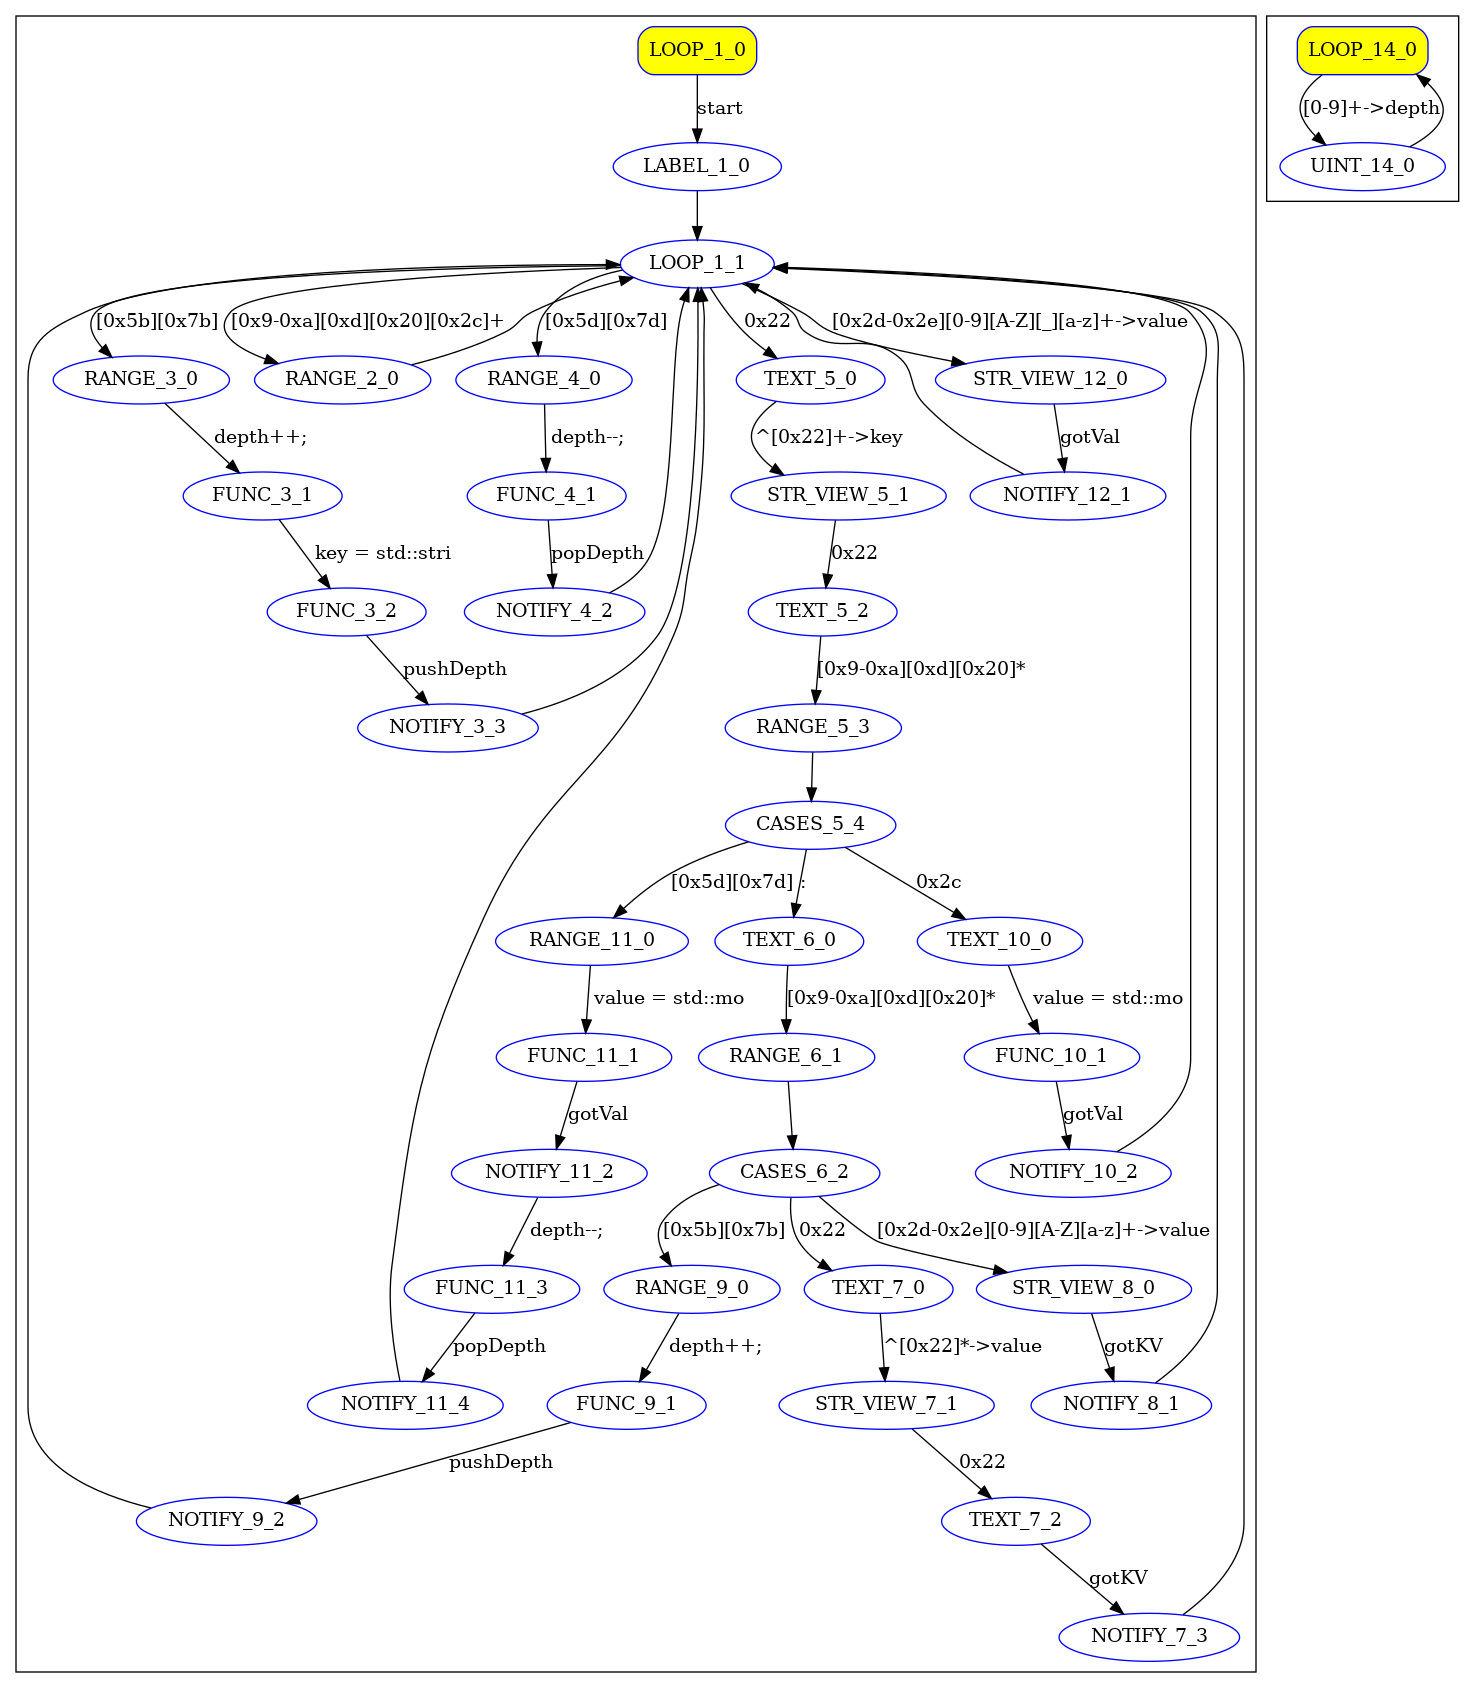
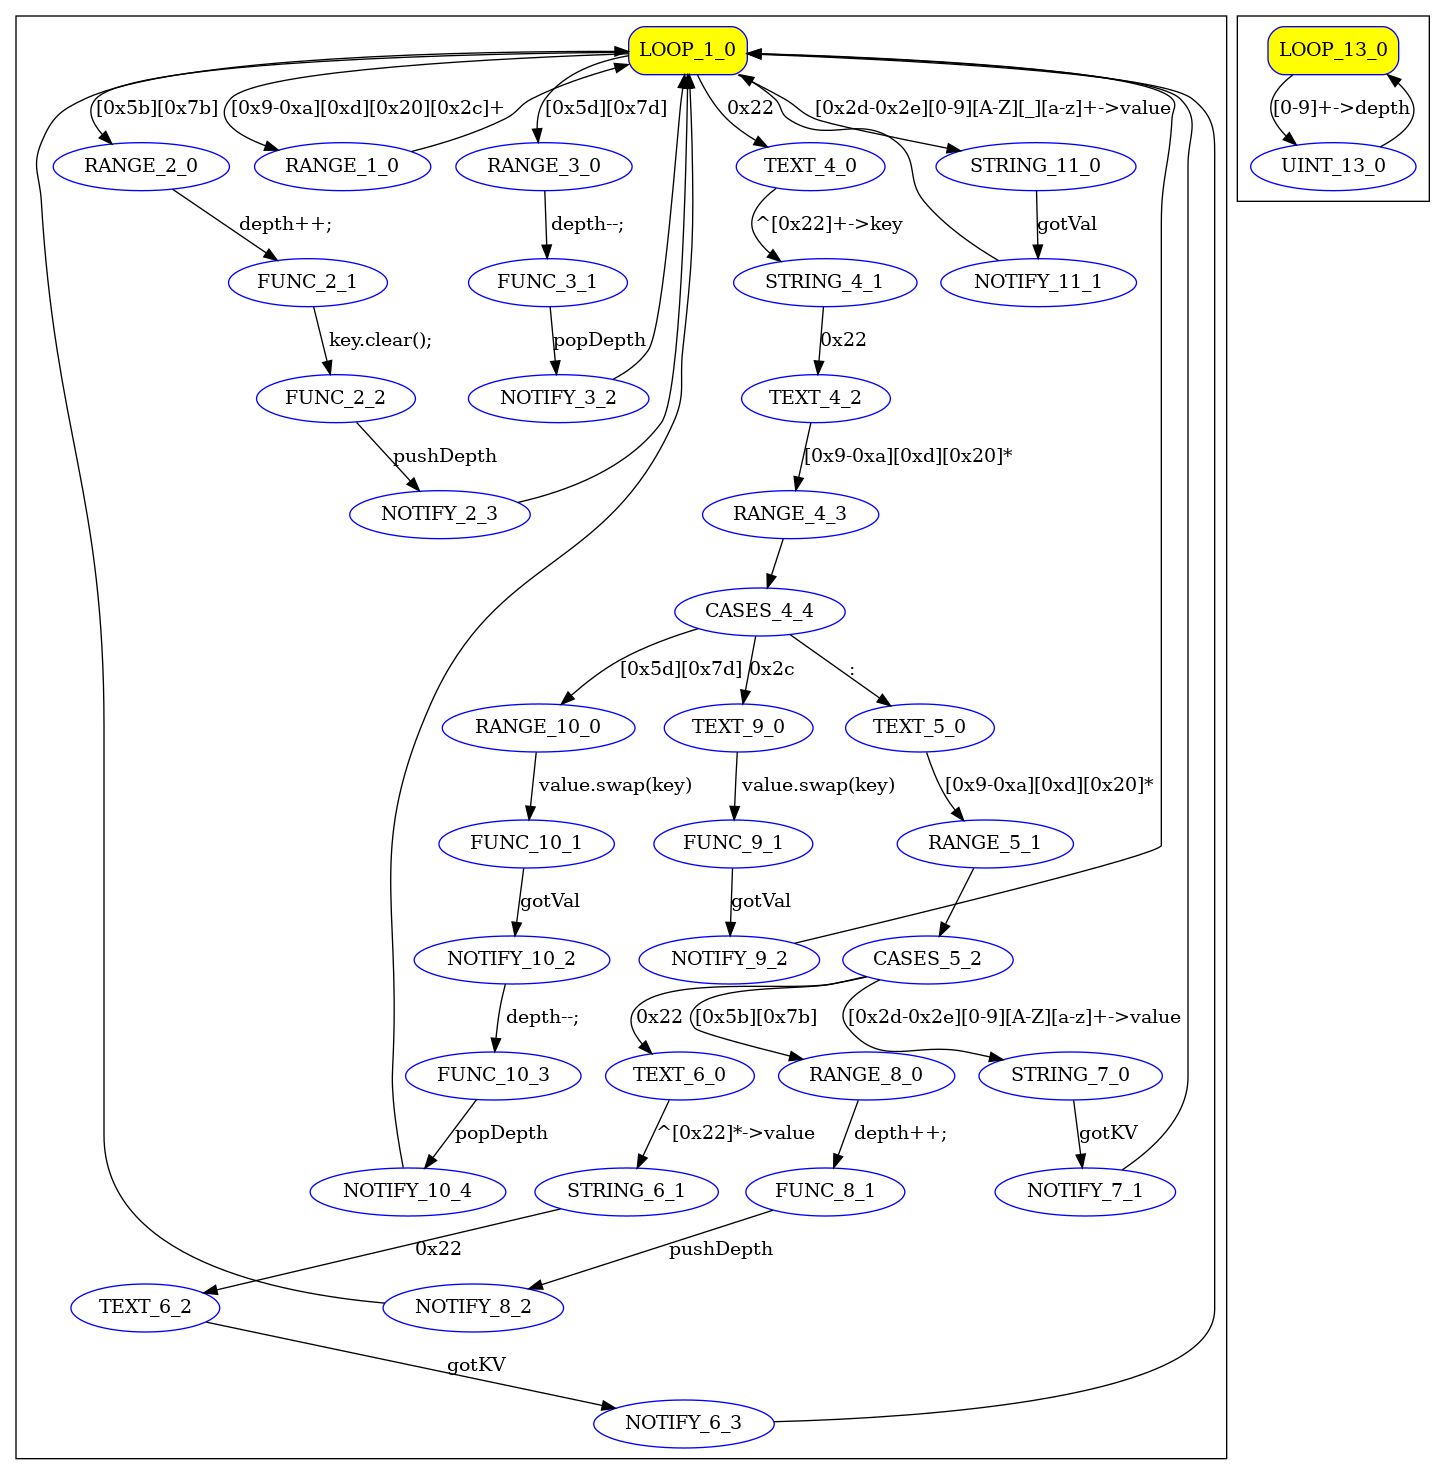
update FSM

Changed region(s): [[0.0, 0.0, 0.9965, 0.998], [0.4048, 0.9356, 0.5294, 0.998], [0.0623, 0.8732, 0.218, 0.9044]]

diff --git a/jsonFullFlow/json.cc b/jsonFullFlow/json.cc
@@ -1,5 +1,5 @@
 // ==============================================================
-// Date: 2025-09-17 08:30:45 GMT
+// Date: 2025-09-17 18:46:08 GMT
 // Generated using vProto(2025.09.17)        https://www.cgen.dev
 // Author: Sergey V. Shchekoldin     Email: shchekoldin@gmail.com
 // autoSSE: 1 cpp98: 0 (SSE4.2: 0 AVX2: 1 SSE2: 1)
@@ -241,9 +241,13 @@ inline bool json::_func_2_1()
 }
 inline bool json::func_2_1(state_t & state)
 {
-    bool ret = _func_2_1();
-    state.node = ret ? node_t::FUNC_2_2 : node_t::NO_STATE;
-    return ret;
+    if (_func_2_1())
+    {
+        state.node = node_t::FUNC_2_2;
+        return true;
+    }
+    state.node = node_t::NO_STATE;
+    return false;
 }
 
 inline bool json::_func_2_2()
@@ -253,9 +257,13 @@ inline bool json::_func_2_2()
 }
 inline bool json::func_2_2(state_t & state)
 {
-    bool ret = _func_2_2();
-    state.node = ret ? node_t::NOTIFY_2_3 : node_t::NO_STATE;
-    return ret;
+    if (_func_2_2())
+    {
+        state.node = node_t::NOTIFY_2_3;
+        return true;
+    }
+    state.node = node_t::NO_STATE;
+    return false;
 }
 
 inline bool json::notify_2_3(state_t & state)
@@ -311,9 +319,13 @@ inline bool json::_func_3_1()
 }
 inline bool json::func_3_1(state_t & state)
 {
-    bool ret = _func_3_1();
-    state.node = ret ? node_t::NOTIFY_3_2 : node_t::NO_STATE;
-    return ret;
+    if (_func_3_1())
+    {
+        state.node = node_t::NOTIFY_3_2;
+        return true;
+    }
+    state.node = node_t::NO_STATE;
+    return false;
 }
 
 inline bool json::notify_3_2(state_t & state)
@@ -957,9 +969,13 @@ inline bool json::_func_8_1()
 }
 inline bool json::func_8_1(state_t & state)
 {
-    bool ret = _func_8_1();
-    state.node = ret ? node_t::NOTIFY_8_2 : node_t::NO_STATE;
-    return ret;
+    if (_func_8_1())
+    {
+        state.node = node_t::NOTIFY_8_2;
+        return true;
+    }
+    state.node = node_t::NO_STATE;
+    return false;
 }
 
 inline bool json::notify_8_2(state_t & state)
@@ -994,9 +1010,13 @@ inline bool json::_func_9_1()
 }
 inline bool json::func_9_1(state_t & state)
 {
-    bool ret = _func_9_1();
-    state.node = ret ? node_t::NOTIFY_9_2 : node_t::NO_STATE;
-    return ret;
+    if (_func_9_1())
+    {
+        state.node = node_t::NOTIFY_9_2;
+        return true;
+    }
+    state.node = node_t::NO_STATE;
+    return false;
 }
 
 inline bool json::notify_9_2(state_t & state)
@@ -1052,9 +1072,13 @@ inline bool json::_func_10_1()
 }
 inline bool json::func_10_1(state_t & state)
 {
-    bool ret = _func_10_1();
-    state.node = ret ? node_t::NOTIFY_10_2 : node_t::NO_STATE;
-    return ret;
+    if (_func_10_1())
+    {
+        state.node = node_t::NOTIFY_10_2;
+        return true;
+    }
+    state.node = node_t::NO_STATE;
+    return false;
 }
 
 inline bool json::notify_10_2(state_t & state)
@@ -1071,9 +1095,13 @@ inline bool json::_func_10_3()
 }
 inline bool json::func_10_3(state_t & state)
 {
-    bool ret = _func_10_3();
-    state.node = ret ? node_t::NOTIFY_10_4 : node_t::NO_STATE;
-    return ret;
+    if (_func_10_3())
+    {
+        state.node = node_t::NOTIFY_10_4;
+        return true;
+    }
+    state.node = node_t::NO_STATE;
+    return false;
 }
 
 inline bool json::notify_10_4(state_t & state)

diff --git a/jsonMaxPerf/json.cc b/jsonMaxPerf/json.cc
@@ -1,5 +1,5 @@
 // ==============================================================
-// Date: 2025-09-17 08:30:45 GMT
+// Date: 2025-09-17 18:46:08 GMT
 // Generated using vProto(2025.09.17)        https://www.cgen.dev
 // Author: Sergey V. Shchekoldin     Email: shchekoldin@gmail.com
 // autoSSE: 1 cpp98: 0 (SSE4.2: 0 AVX2: 1 SSE2: 1)
@@ -243,9 +243,13 @@ inline bool json::_func_2_1()
 }
 inline bool json::func_2_1(state_t & state)
 {
-    bool ret = _func_2_1();
-    state.node = ret ? node_t::FUNC_2_2 : node_t::NO_STATE;
-    return ret;
+    if (_func_2_1())
+    {
+        state.node = node_t::FUNC_2_2;
+        return true;
+    }
+    state.node = node_t::NO_STATE;
+    return false;
 }
 
 inline bool json::_func_2_2()
@@ -255,9 +259,13 @@ inline bool json::_func_2_2()
 }
 inline bool json::func_2_2(state_t & state)
 {
-    bool ret = _func_2_2();
-    state.node = ret ? node_t::NOTIFY_2_3 : node_t::NO_STATE;
-    return ret;
+    if (_func_2_2())
+    {
+        state.node = node_t::NOTIFY_2_3;
+        return true;
+    }
+    state.node = node_t::NO_STATE;
+    return false;
 }
 
 inline bool json::notify_2_3(state_t & state)
@@ -313,9 +321,13 @@ inline bool json::_func_3_1()
 }
 inline bool json::func_3_1(state_t & state)
 {
-    bool ret = _func_3_1();
-    state.node = ret ? node_t::NOTIFY_3_2 : node_t::NO_STATE;
-    return ret;
+    if (_func_3_1())
+    {
+        state.node = node_t::NOTIFY_3_2;
+        return true;
+    }
+    state.node = node_t::NO_STATE;
+    return false;
 }
 
 inline bool json::notify_3_2(state_t & state)
@@ -953,9 +965,13 @@ inline bool json::_func_8_1()
 }
 inline bool json::func_8_1(state_t & state)
 {
-    bool ret = _func_8_1();
-    state.node = ret ? node_t::NOTIFY_8_2 : node_t::NO_STATE;
-    return ret;
+    if (_func_8_1())
+    {
+        state.node = node_t::NOTIFY_8_2;
+        return true;
+    }
+    state.node = node_t::NO_STATE;
+    return false;
 }
 
 inline bool json::notify_8_2(state_t & state)
@@ -990,9 +1006,13 @@ inline bool json::_func_9_1()
 }
 inline bool json::func_9_1(state_t & state)
 {
-    bool ret = _func_9_1();
-    state.node = ret ? node_t::NOTIFY_9_2 : node_t::NO_STATE;
-    return ret;
+    if (_func_9_1())
+    {
+        state.node = node_t::NOTIFY_9_2;
+        return true;
+    }
+    state.node = node_t::NO_STATE;
+    return false;
 }
 
 inline bool json::notify_9_2(state_t & state)
@@ -1048,9 +1068,13 @@ inline bool json::_func_10_1()
 }
 inline bool json::func_10_1(state_t & state)
 {
-    bool ret = _func_10_1();
-    state.node = ret ? node_t::NOTIFY_10_2 : node_t::NO_STATE;
-    return ret;
+    if (_func_10_1())
+    {
+        state.node = node_t::NOTIFY_10_2;
+        return true;
+    }
+    state.node = node_t::NO_STATE;
+    return false;
 }
 
 inline bool json::notify_10_2(state_t & state)
@@ -1067,9 +1091,13 @@ inline bool json::_func_10_3()
 }
 inline bool json::func_10_3(state_t & state)
 {
-    bool ret = _func_10_3();
-    state.node = ret ? node_t::NOTIFY_10_4 : node_t::NO_STATE;
-    return ret;
+    if (_func_10_3())
+    {
+        state.node = node_t::NOTIFY_10_4;
+        return true;
+    }
+    state.node = node_t::NO_STATE;
+    return false;
 }
 
 inline bool json::notify_10_4(state_t & state)

diff --git a/jsonFullFlow/json.h b/jsonFullFlow/json.h
@@ -1,5 +1,5 @@
 // ==============================================================
-// Date: 2025-09-17 08:30:45 GMT
+// Date: 2025-09-17 18:46:08 GMT
 // Generated using vProto(2025.09.17)        https://www.cgen.dev
 // Author: Sergey V. Shchekoldin     Email: shchekoldin@gmail.com
 // ==============================================================

diff --git a/jsonMaxPerf/json.h b/jsonMaxPerf/json.h
@@ -1,5 +1,5 @@
 // ==============================================================
-// Date: 2025-09-17 08:30:45 GMT
+// Date: 2025-09-17 18:46:08 GMT
 // Generated using vProto(2025.09.17)        https://www.cgen.dev
 // Author: Sergey V. Shchekoldin     Email: shchekoldin@gmail.com
 // ==============================================================
